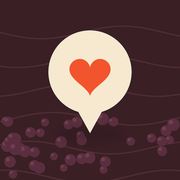
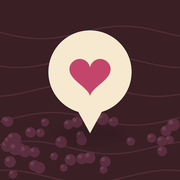
GS: Warteliste mit Double-Opt-in, Vorschaubild für Links, App-Symbol in Rosé, Startseite mit neuen Funktionen
Claude-Session: https://claude.ai/code/session_013EZpijX2i7xxmbD4YmDS6P

Changed region(s): [[0.3611, 0.3056, 0.6389, 0.5278]]

diff --git a/start/index.html b/start/index.html
@@ -5,6 +5,17 @@
 <meta name="viewport" content="width=device-width, initial-scale=1, viewport-fit=cover">
 <meta name="theme-color" content="#1c1016">
 <meta name="description" content="GS ist eine private Karte für zwei. So bekommst du Zugang, installierst die App auf dem Handy und holst deinen Partner dazu.">
+<meta property="og:type" content="website">
+<meta property="og:site_name" content="GS">
+<meta property="og:title" content="GS – Orte, die nur ihr kennt">
+<meta property="og:description" content="Eure private Karte für ruhige Lieblingsorte – speichern, bewerten und mit Partner oder Familie teilen.">
+<meta property="og:url" content="https://app.geheimespots.de/start/">
+<meta property="og:image" content="https://app.geheimespots.de/og.jpg">
+<meta property="og:image:width" content="1200">
+<meta property="og:image:height" content="630">
+<meta property="og:image:alt" content="GS – Orte, die nur ihr kennt. Zwei Pins mit Herz auf einer dunklen Karte.">
+<meta property="og:locale" content="de_DE">
+<meta name="twitter:card" content="summary_large_image">
 <title>GS – eure private Karte</title>
 <link rel="icon" href="../icon-192.png">
 <link rel="apple-touch-icon" href="../icon-180.png">
@@ -44,6 +55,16 @@ a{color:inherit}
 .knoepfe{display:flex;flex-wrap:wrap;gap:12px}
 .btn{display:inline-flex;align-items:center;justify-content:center;min-height:52px;padding:0 26px;border-radius:999px;font-weight:700;font-size:17px;text-decoration:none;border:0}
 .btn.voll{background:var(--koralle);color:#fff;box-shadow:0 8px 30px rgba(196,69,108,.35)}
+.wl{display:grid;gap:14px;max-width:520px;margin-top:8px;position:relative}
+.wl-feld{display:grid;gap:6px;font-weight:700;font-size:15px}
+.wl-feld input{font:inherit;font-size:17px;color:var(--haut);background:rgba(246,233,228,.07);border:1.5px solid rgba(246,233,228,.14);border-radius:14px;padding:14px 16px;outline:none}
+.wl-feld input:focus{border-color:var(--koralle)}
+.wl-ok{display:flex;gap:12px;align-items:flex-start;font-size:15px;color:var(--rauch);line-height:1.5}
+.wl-ok input{width:22px;height:22px;margin:1px 0 0;accent-color:var(--koralle);flex:none}
+.wl-ok a{color:var(--kerze)}
+.wl-err{margin:0;min-height:1.2em;color:#ff9a9e;font-size:15px}
+.wl .btn{justify-self:start}
+.wl-status{max-width:520px;background:rgba(196,69,108,.16);border-radius:16px;padding:14px 18px;margin:8px 0 14px;line-height:1.5}
 .btn.rand{background:transparent;color:var(--haut);box-shadow:inset 0 0 0 1.5px rgba(246,233,228,.45)}
 .btn.dunkel{background:rgba(246,233,228,.1);color:var(--haut);box-shadow:inset 0 0 0 1.5px rgba(246,233,228,.25)}
 
@@ -147,9 +168,14 @@ footer span{margin-right:auto}
     <h2 id="was">Was GS kann</h2>
     <p class="intro">Kein Download aus dem App Store nötig: GS läuft im Browser und liegt danach wie eine normale App auf deinem Home-Bildschirm.</p>
     <ul class="kurz">
-      <li><b>Nur ihr zwei</b><span>Eure Karte sieht niemand außer euch. Wer dazukommt, bestimmt ihr mit einem Code.</span></li>
-      <li style="--farbe:var(--kerze)"><b>Ungestört bewertet</b><span>Sterne für Gesamt, Ambiente und wie ungestört ihr dort wart. Mit Foto, Adresse und Route dorthin.</span></li>
-      <li style="--farbe:var(--haut)"><b>Teilen, wenn ihr wollt</b><span>Einzelne Spots könnt ihr teilen – ohne Fotos, nur mit Profilbild und Kürzel wie „N…s“.</span></li>
+      <li><b>Nur für euch</b><span>Eure Karte sieht niemand außer euch – zu zweit oder mit der Familie. Wer dazukommt, bestimmt ihr mit einem Code.</span></li>
+      <li style="--farbe:var(--kerze)"><b>Ungestört bewertet</b><span>Sterne für Gesamt, Ambiente und wie ungestört ihr dort wart. Mit Adresse und Route dorthin.</span></li>
+      <li style="--farbe:var(--haut)"><b>Fünf Fotos pro Ort</b><span>Eine kleine Galerie zu jedem Spot. Die Bilder bleiben privat und gelangen nie auf die öffentliche Karte.</span></li>
+      <li><b>Eure Wunschliste</b><span>Orte, an denen ihr noch nicht wart, landen mit dem Schloss-Herz in euren Favoriten – bis ihr dort wart.</span></li>
+      <li style="--farbe:var(--kerze)"><b>Vorschläge in der Nähe</b><span>Aussichtspunkte, Picknickplätze und Waldparkplätze im Umkreis von 3, 5 oder 10 km – oder rund um jeden Ort, den ihr sucht.</span></li>
+      <li style="--farbe:var(--haut)"><b>Herzen anderer entdecken</b><span>Auf der öffentlichen Karte zeigt jedes Herz einen Lieblingsort: mit Riss unter 5 Punkten, ganzes Herz ab 5, Doppelherz ab 7. Filterbar.</span></li>
+      <li><b>Teilen, wenn ihr wollt</b><span>Einzelne Spots könnt ihr teilen – ohne Fotos, nur mit Profilbild und Kürzel wie „N…s“.</span></li>
+      <li style="--farbe:var(--kerze)"><b>Bescheid, wenn's Neues gibt</b><span>Auf Wunsch eine Benachrichtigung, sobald euer Partner einen Ort speichert. Ohne den Namen des Orts auf dem Sperrbildschirm.</span></li>
     </ul>
   </section>
 
@@ -206,6 +232,19 @@ footer span{margin-right:auto}
     </ol>
   </section>
 
+  <section id="warteliste" aria-labelledby="wlH">
+    <h2 id="wlH">Bald im App Store</h2>
+    <p class="intro">GS kommt als App für iPhone und Android. Trag dich ein, dann sagen wir dir einmal Bescheid, sobald es so weit ist.</p>
+    <div class="wl-status" id="wlStatus" role="status" hidden></div>
+    <form class="wl" id="wlForm" novalidate>
+      <label class="wl-feld">E-Mail<input type="email" id="wlEmail" autocomplete="email" inputmode="email" maxlength="120" required></label>
+      <input type="text" id="wlHp" tabindex="-1" autocomplete="off" aria-hidden="true" style="position:absolute;left:-9999px;width:1px;height:1px">
+      <label class="wl-ok"><input type="checkbox" id="wlOk"><span>Ich möchte eine E-Mail bekommen, sobald GS im App Store erscheint. Abmelden geht jederzeit über den Link in der Mail. Mehr in der <a href="../rechtliches/datenschutz.html#warteliste">Datenschutzerklärung</a>.</span></label>
+      <p class="wl-err" id="wlErr" aria-live="polite"></p>
+      <button class="btn voll" id="wlBtn" type="submit">Eintragen</button>
+    </form>
+  </section>
+
   <section aria-labelledby="fragenH">
     <h2 id="fragenH">Fragen</h2>
     <div class="fragen">
@@ -255,6 +294,59 @@ footer span{margin-right:auto}
   });
   if (/android/i.test(navigator.userAgent)) waehle(1);
 })();
+</script>
+<script type="module">
+const FIREBASE_CONFIG = {
+  apiKey: 'AIzaSyBi8vKQETOYjboNPN72zPrSsuZQLUGOKqI',
+  authDomain: 'projekt-fs.firebaseapp.com',
+  projectId: 'projekt-fs',
+  storageBucket: 'projekt-fs.firebasestorage.app',
+  messagingSenderId: '1009677457222',
+  appId: '1:1009677457222:web:c3eb3d2029ccc804503747'
+};
+const base = 'https://www.gstatic.com/firebasejs/10.12.2/';
+const $ = s => document.querySelector(s);
+const EMAIL_RE = /^[^@ ]+@[^@ ]+[.][^@ ]+$/;
+let fs = null;
+async function db() {
+  if (fs) return fs;
+  const [A, F] = await Promise.all([import(base + 'firebase-app.js'), import(base + 'firebase-firestore.js')]);
+  fs = { F, db: F.getFirestore(A.initializeApp(FIREBASE_CONFIG)) };
+  return fs;
+}
+const status = (t, formWeg) => { const el = $('#wlStatus'); el.textContent = t; el.hidden = false; if (formWeg) $('#wlForm').hidden = true; $('#warteliste').scrollIntoView({ block: 'start' }); };
+$('#wlForm').addEventListener('submit', async e => {
+  e.preventDefault();
+  const err = $('#wlErr'), btn = $('#wlBtn'), email = $('#wlEmail').value.trim().toLowerCase();
+  if ($('#wlHp').value) { status('Danke! Schau in dein Postfach.', true); return; }
+  if (!EMAIL_RE.test(email) || email.length > 120) { err.textContent = 'Diese E-Mail-Adresse sieht nicht richtig aus.'; $('#wlEmail').focus(); return; }
+  if (!$('#wlOk').checked) { err.textContent = 'Bitte setz das Häkchen, damit wir dir schreiben dürfen.'; return; }
+  try { if (Date.now() - Number(localStorage.getItem('gs.wl') || 0) < 60000) { err.textContent = 'Bitte warte eine Minute.'; return; } } catch {}
+  err.textContent = ''; btn.disabled = true; btn.textContent = 'Wird eingetragen…';
+  try {
+    const { F, db: d } = await db();
+    await F.addDoc(F.collection(d, 'warteliste'), { email, einwilligung: '2026-11-26', createdAt: F.serverTimestamp(), bestaetigt: false });
+    try { localStorage.setItem('gs.wl', String(Date.now())); } catch {}
+    status('Fast geschafft: Wir haben dir eine E-Mail geschickt. Bitte bestätige darin deine Anmeldung – schau zur Sicherheit auch im Spam-Ordner nach.', true);
+  } catch {
+    err.textContent = 'Das hat nicht geklappt. Bitte versuch es später nochmal.';
+    btn.disabled = false; btn.textContent = 'Eintragen';
+  }
+});
+// Links aus der Bestätigungs-Mail
+const q = new URLSearchParams(location.search), was = q.get('warteliste'), id = q.get('id') || '';
+if ((was === 'bestaetigen' || was === 'abmelden') && /^[A-Za-z0-9]{10,40}$/.test(id)) {
+  history.replaceState(null, '', location.pathname + '#warteliste');
+  (async () => {
+    try {
+      const { F, db: d } = await db(), ref = F.doc(d, 'warteliste', id);
+      if (was === 'bestaetigen') { await F.updateDoc(ref, { bestaetigt: true, bestaetigtAm: F.serverTimestamp() }); status('Danke, deine Anmeldung ist bestätigt. Wir melden uns, sobald GS im App Store ist.', true); }
+      else { await F.deleteDoc(ref); status('Du bist abgemeldet und deine E-Mail-Adresse ist gelöscht.', false); }
+    } catch {
+      status(was === 'bestaetigen' ? 'Dieser Link ist nicht mehr gültig oder wurde schon benutzt. Trag dich bei Bedarf einfach neu ein.' : 'Abmelden hat nicht geklappt. Schreib uns an kontakt@geheimespots.de, dann löschen wir deine Adresse.', false);
+    }
+  })();
+}
 </script>
 </body>
 </html>

diff --git a/functions/index.js b/functions/index.js
@@ -204,6 +204,10 @@ async function aufraeumen(now = Date.now()) {
     .concat((await db.collection('meldungen').where('status', '==', 'spam').get()).docs.filter(d => { const c = d.data().createdAt; return c && c.toMillis() < tag; }));
   for (let i = 0; i < alt.length; i += 400) { const b = db.batch(); alt.slice(i, i + 400).forEach(d => b.delete(d.ref)); await b.commit(); }
   n += alt.length;
+  // Unbestätigte Warteliste-Einträge nach 7 Tagen
+  const wl = (await db.collection('warteliste').where('bestaetigt', '==', false).get()).docs.filter(x => { const c = x.data().createdAt; return c && c.toMillis && c.toMillis() < now - 7 * 24 * 3600 * 1000; });
+  await Promise.all(wl.map(d => d.ref.delete()));
+  n += wl.length;
   // Nicht bearbeitete Fotovorschläge nach 90 Tagen
   const fv = await db.collection('ortFotos').where('createdAt', '<', Timestamp.fromMillis(now - 90 * 24 * 3600 * 1000)).get();
   await Promise.all(fv.docs.map(d => d.ref.delete()));
@@ -399,6 +403,44 @@ exports.neuerFotovorschlag = onDocumentCreated({ document: 'ortFotos/{fid}', sec
   try { await fotoHinweis(d.ort); } catch (e) { logger.warn('Foto-Hinweis fehlgeschlagen', e); }
 });
 
+/* ======================================================================
+ * Warteliste für die App-Store-Version: Double-Opt-in per Bestätigungs-Mail
+ * ====================================================================== */
+const WARTELISTE_LIMIT_PER_HOUR = 30;
+function wartelisteMail(id) {
+  const ja = `${APP_URL}start/?warteliste=bestaetigen&id=${encodeURIComponent(id)}`;
+  const nein = `${APP_URL}start/?warteliste=abmelden&id=${encodeURIComponent(id)}`;
+  const text = `Hallo,\n\ndu möchtest Bescheid bekommen, sobald GS im App Store erscheint. Bitte bestätige deine Anmeldung:\n\n${ja}\n\nWar das nicht du? Dann ignoriere diese Mail einfach – ohne Bestätigung löschen wir deine Adresse nach 7 Tagen.\n\nAbmelden geht jederzeit: ${nein}\n\nGS – geheime Spots\nkontakt@geheimespots.de`;
+  const html = `<!doctype html><html lang="de"><head><meta charset="utf-8"><meta name="color-scheme" content="dark"></head><body style="margin:0;background:#1c1016;font-family:-apple-system,Segoe UI,Helvetica,Arial,sans-serif;color:#f6e9e4">
+<div style="max-width:520px;margin:0 auto;padding:32px 20px">
+  <div style="background:#2b1424;border-radius:22px 22px 0 0;padding:22px 24px 18px"><div style="font-size:16px;font-weight:700;margin:0 0 10px">GS</div><div style="font-family:Georgia,'Times New Roman',serif;font-style:italic;font-size:26px;line-height:1.15">Fast geschafft</div></div>
+  <div style="background:#241520;border-radius:0 0 22px 22px;padding:22px 24px">
+    <p style="margin:0 0 18px;font-size:15px;line-height:1.6;color:#e3cfd6">Du möchtest Bescheid bekommen, sobald GS im App Store erscheint. Bitte bestätige deine Anmeldung:</p>
+    <p style="margin:0 0 22px"><a href="${ja}" style="display:inline-block;background:#c4456c;color:#fff;text-decoration:none;font-weight:700;padding:13px 22px;border-radius:14px">Anmeldung bestätigen</a></p>
+    <p style="margin:0 0 14px;font-size:14px;line-height:1.6;color:#b89aa8">War das nicht du? Dann ignoriere diese Mail einfach – ohne Bestätigung löschen wir deine Adresse nach 7 Tagen. <a href="${nein}" style="color:#f2b8c8">Abmelden</a> geht jederzeit.</p>
+    <p style="margin:6px 0 0;font-size:13px;color:#b89aa8">GS – geheime Spots · kontakt@geheimespots.de</p></div>
+</div></body></html>`;
+  return { html, text };
+}
+exports.neueWarteliste = onDocumentCreated({ document: 'warteliste/{id}', secrets: [BREVO_KEY] }, async event => {
+  const snap = event.data; if (!snap) return;
+  const d = snap.data() || {}, email = String(d.email || '').trim().toLowerCase();
+  if (!EMAIL_RE.test(email)) { await snap.ref.delete(); return; }
+  const seit = Timestamp.fromMillis(Date.now() - 3600 * 1000);
+  const n = (await db.collection('warteliste').where('createdAt', '>', seit).get()).size;
+  if (n > WARTELISTE_LIMIT_PER_HOUR) { await snap.ref.delete(); logger.warn('Warteliste gedrosselt', { n }); return; }
+  const gleich = (await db.collection('warteliste').where('email', '==', email).get()).docs.filter(x => x.id !== snap.id);
+  if (gleich.length) { // schon eingetragen: keine zweite Adresse, höchstens die alte Bestätigung erneut schicken
+    await snap.ref.delete();
+    const alt = gleich[0], a = alt.data() || {};
+    const vor = a.createdAt && a.createdAt.toMillis ? Date.now() - a.createdAt.toMillis() : 0;
+    if (!a.bestaetigt && vor > 10 * 60 * 1000) { const m = wartelisteMail(alt.id); try { await sendMail(email, 'GS: Bitte bestätige deine Anmeldung', m.html, m.text); } catch (e) { logger.warn('Warteliste-Mail fehlgeschlagen', String(e)); } }
+    return;
+  }
+  const m = wartelisteMail(snap.id);
+  try { await sendMail(email, 'GS: Bitte bestätige deine Anmeldung', m.html, m.text); } catch (e) { logger.warn('Warteliste-Mail fehlgeschlagen', String(e)); }
+});
+
 /* Entscheidung an die meldende Person (Art. 16 Abs. 5 DSA) */
 exports.meldungEntschieden = onDocumentUpdated({ document: 'meldungen/{id}', secrets: [BREVO_KEY] }, async event => {
   const b = event.data.before.data() || {}, a = event.data.after.data() || {};
@@ -482,4 +524,4 @@ exports.kontoEntsperrt = onDocumentDeleted('kontosperren/{uid}', async event => 
 });
 
 // nur für lokale Tests
-if (process.env.FS_TEST) exports._test = { fotoHinweis, issue, inviteMail, genCode, aufraeumen, spotSync, ortRechnen, kurz, eidOf, distM, profilAufraeumen, gsMail };
+if (process.env.FS_TEST) exports._test = { fotoHinweis, wartelisteMail, issue, inviteMail, genCode, aufraeumen, spotSync, ortRechnen, kurz, eidOf, distM, profilAufraeumen, gsMail };

diff --git a/rechtliches/datenschutz.html b/rechtliches/datenschutz.html
@@ -56,6 +56,9 @@
 <p>Bei einem öffentlichen Ort kannst du ein Foto vorschlagen. Es wird auf deinem Gerät verkleinert und neu gespeichert, dabei gehen Metadaten wie Aufnahmeort und Kamera verloren. Bis zur Prüfung speichern wir das Foto, den Ort, dein Konto und den Zeitpunkt. Der Betreiber prüft den Vorschlag von Hand. Wird er freigegeben, speichern wir nur das Foto mit dem Hinweis „Foto aus der Community“ beim Ort, ohne Bezug zu deinem Konto. Der Vorschlag selbst wird danach gelöscht, ebenso bei Ablehnung und spätestens nach 90 Tagen. Rechtsgrundlage ist die Erfüllung der Nutzungsbedingungen (Art. 6 Abs. 1 lit. b DSGVO).</p>
 <p>Für Orte ohne Foto kann der Betreiber frei lizenzierte Bilder aus <i>Wikimedia Commons</i> auswählen. Diese werden als Kopie bei GS gespeichert und mit Urheber, Lizenz und Link zur Quelle angezeigt. Deine Daten werden dabei nicht an Wikimedia übermittelt, erst wenn du auf den Quellen-Link tippst.</p>
 
+<h2 id="warteliste">6d. Warteliste für die App</h2>
+<p>Auf der Startseite kannst du dich mit deiner E-Mail-Adresse in die Warteliste eintragen, um einmal Bescheid zu bekommen, sobald GS im App Store erscheint. Wir speichern deine E-Mail-Adresse, den Zeitpunkt und ob du die Anmeldung bestätigt hast. Du bekommst zuerst eine Mail mit einem Bestätigungslink (Double-Opt-in); ohne Bestätigung löschen wir die Adresse nach 7 Tagen. Nach der Benachrichtigung zum App-Start löschen wir die Liste. Abmelden kannst du dich jederzeit über den Link in der Mail. Rechtsgrundlage ist deine Einwilligung (Art. 6 Abs. 1 lit. a DSGVO); der Versand läuft über Brevo.</p>
+
 <h2>7. Standort</h2>
 <p>GS fragt deinen Standort nur ab, wenn du darauf tippst, zum Beispiel auf „Mein Standort“ oder „Hier setzen“. Dein Handy fragt dich vorher um Erlaubnis. Der Standort wird auf deinem Gerät verarbeitet und nur gespeichert, wenn du dort einen Spot anlegst. Für Routen und Vorschläge in der Nähe werden die nötigen Koordinaten an die in Abschnitt 8 genannten Kartendienste übermittelt.</p>
 
@@ -76,7 +79,7 @@
 
 <h2>10. Wie lange werden Daten gespeichert?</h2>
 <p>Wir speichern deine Daten, solange du ein Konto hast. Unter <b>Einstellungen › Konto löschen</b> kannst du dein Konto jederzeit selbst löschen. Dann werden dein Login, dein Profil, deine Mitgliedschaften, deine öffentlichen Einträge, deine Push-Abos und offene Fotovorschläge gelöscht. Freigegebene Ortsfotos bleiben ohne Bezug zu dir beim Ort; auf Wunsch entfernen wir sie. Spots, die du auf einer gemeinsamen Karte angelegt hast, bleiben für die anderen Mitglieder erhalten, bis die Karte gelöscht wird oder du uns bittest, sie zu löschen (siehe Abschnitt 2). Eine Karte samt aller Spots kann die Person löschen, die sie angelegt hat.</p>
-<p>Weitere Fristen: Anfragen und Einladungscodes löschen wir nach sechs Monaten, erledigte Meldungen nach einem Jahr, als Spam erkannte Meldungen nach einem Tag, nicht bearbeitete Fotovorschläge nach 90 Tagen. Zum Schutz vor Datenverlust erstellen wir täglich eine Sicherung der Datenbank in Frankfurt. Sicherungen werden nach 30 Tagen automatisch gelöscht. Gelöschte Daten können deshalb bis zu 30 Tage in einer Sicherung verbleiben; sie werden daraus nur zur Wiederherstellung nach einem Fehler verwendet. Bei gesperrten Einträgen und Konten bewahren wir einen Vermerk (betroffenes Konto, Name des Eintrags, Grund, Zeitpunkt) auf, solange das nötig ist, um eine erneute Veröffentlichung zu verhindern und auf Widersprüche reagieren zu können.</p>
+<p>Weitere Fristen: Anfragen und Einladungscodes löschen wir nach sechs Monaten, erledigte Meldungen nach einem Jahr, als Spam erkannte Meldungen nach einem Tag, nicht bearbeitete Fotovorschläge nach 90 Tagen, unbestätigte Einträge in der Warteliste nach 7 Tagen. Zum Schutz vor Datenverlust erstellen wir täglich eine Sicherung der Datenbank in Frankfurt. Sicherungen werden nach 30 Tagen automatisch gelöscht. Gelöschte Daten können deshalb bis zu 30 Tage in einer Sicherung verbleiben; sie werden daraus nur zur Wiederherstellung nach einem Fehler verwendet. Bei gesperrten Einträgen und Konten bewahren wir einen Vermerk (betroffenes Konto, Name des Eintrags, Grund, Zeitpunkt) auf, solange das nötig ist, um eine erneute Veröffentlichung zu verhindern und auf Widersprüche reagieren zu können.</p>
 
 <h2>11. Deine Rechte</h2>
 <p>Du hast das Recht auf Auskunft (Art. 15 DSGVO), Berichtigung (Art. 16), Löschung (Art. 17), Einschränkung der Verarbeitung (Art. 18), Datenübertragbarkeit (Art. 20) und Widerspruch (Art. 21). Eine Kopie deiner Daten – Profil, Karten, Spots mit Bewertungen und Fotos – bekommst du jederzeit selbst unter <b>Einstellungen › Meine Daten herunterladen</b> als Datei. Erteilte Einwilligungen kannst du jederzeit mit Wirkung für die Zukunft widerrufen (Art. 7 Abs. 3). Außerdem kannst du dich bei einer Datenschutz-Aufsichtsbehörde beschweren, zum Beispiel bei der Behörde deines Bundeslandes.</p>

diff --git a/codes/index.html b/codes/index.html
@@ -115,6 +115,12 @@ body.in #login{display:none}body:not(.in) #app{display:none}
     </section>
 
     <section class="card">
+      <h2>Warteliste</h2>
+      <p class="small mut" style="margin:0" id="wlInfo">Lade…</p>
+      <button class="btn sm" data-a="wl-copy" data-id="" style="margin-top:8px">Bestätigte Adressen kopieren</button>
+    </section>
+
+    <section class="card">
       <h2>Ortsfotos <span class="n" id="nFoto" hidden></span></h2>
       <p class="small mut" style="margin:0">Vorschläge aus der App. Freigegebene Fotos erscheinen ohne Namen. Für Orte ohne Foto kannst du frei lizenzierte Bilder aus Wikimedia Commons in der Nähe suchen – die Quelle wird dann automatisch genannt.</p>
       <div class="tabs" id="fTabs">
@@ -166,6 +172,7 @@ const when = ts => { try { const d = ts && ts.toDate ? ts.toDate() : null; retur
 const STATUS = { neu: 'Neu', freigegeben: 'Freigegeben', sendet: 'Wird gesendet', verschickt: 'Verschickt', fehler: 'Fehler', abgelehnt: 'Abgelehnt', doppelt: 'Doppelt' };
 let fs = null, unsubs = [], anfragen = [], codes = [], names = {}, aFilter = 'offen', cFilter = 'alle';
 let meldungen = [], mFilter = 'offen', mInfo = {}, sperrKonten = [];
+let warteliste = [];
 let fotos = [], fFilter = 'offen', orteAlle = null, bildIds = new Set(), wiki = {}, wikiOffen = null;
 const GRUND = { person: 'Erkennbare Person/Kennzeichen', privat: 'Privatgrundstück/Wohnadresse', illegal: 'Gefährlich oder verboten', beleidigend: 'Beleidigend/unangemessen', falsch: 'Falsch/gibt es nicht mehr', sonstiges: 'Sonstiges' };
 let toastT;
@@ -189,6 +196,11 @@ function stop() { for (const u of unsubs) u(); unsubs = []; }
 function start() {
   const { F, db } = fs;
   unsubs.push(F.onSnapshot(F.doc(db, 'einstellungen', 'codes'), s => { $('#auto').checked = !!(s.exists() && s.data().auto); }, e => toast(errMsg(e), 5000)));
+  unsubs.push(F.onSnapshot(F.collection(db, 'warteliste'), s => {
+    warteliste = s.docs.map(d => d.data());
+    const ok = warteliste.filter(x => x.bestaetigt).length;
+    $('#wlInfo').textContent = `${ok} bestätigt · ${warteliste.length - ok} warten auf Bestätigung (werden nach 7 Tagen gelöscht). Nach dem App-Start: Adressen kopieren, einmal anschreiben, dann die Liste löschen.`;
+  }, e => { $('#wlInfo').textContent = errMsg(e); }));
   unsubs.push(F.onSnapshot(F.query(F.collection(db, 'ortFotos'), F.where('status', '==', 'offen')), s => {
     fotos = s.docs.map(d => ({ id: d.id, ...d.data() })).sort((a, b) => ((a.createdAt && a.createdAt.toMillis()) || 0) - ((b.createdAt && b.createdAt.toMillis()) || 0));
     renderF(); orteLaden();
@@ -427,6 +439,7 @@ document.addEventListener('click', async e => {
   if (t && t.closest('#cTabs')) { cFilter = t.dataset.f; for (const b of document.querySelectorAll('#cTabs button')) b.classList.toggle('on', b === t); renderC(); return; }
   const b = e.target.closest('[data-a]'); if (!b) return;
   const id = b.dataset.id, a = b.dataset.a;
+  if (a === 'wl-copy') { const l = warteliste.filter(x => x.bestaetigt).map(x => x.email).join(', '); if (!l) { toast('Noch keine bestätigten Adressen'); return; } try { await navigator.clipboard.writeText(l); toast('Adressen kopiert – bitte als BCC versenden'); } catch { prompt('Adressen (als BCC versenden):', l); } return; }
   if (/^(f-ok|f-no|w-such|w-pick|b-weg)$/.test(a)) { b.disabled = true; await fotoAktion(a, id, b); b.disabled = false; return; }
   if (a === 'm-ok' || a === 'm-eintrag' || a === 'm-ort' || a === 'm-konto' || a === 'm-entfernt') { b.disabled = true; await moderate(id, a); b.disabled = false; }
   else if (a === 'k-frei') { if (!confirm('Konto wieder freigeben? Die Person kann sich dann wieder anmelden.')) return; b.disabled = true; try { await fs.F.deleteDoc(fs.F.doc(fs.db, 'kontosperren', id)); toast('Konto freigegeben'); } catch (er) { toast(errMsg(er), 5000); b.disabled = false; } }

diff --git a/index.html b/index.html
@@ -7,11 +7,22 @@
 <meta name="mobile-web-app-capable" content="yes">
 <meta name="apple-mobile-web-app-status-bar-style" content="black-translucent">
 <meta name="apple-mobile-web-app-title" content="GS">
-<meta name="app-version" content="2026.11.26-37">
+<meta name="app-version" content="2026.11.26-38">
 <meta name="theme-color" content="#1c1016">
 <link rel="apple-touch-icon" href="icon-180.png">
 <link rel="icon" href="icon-192.png">
 <link rel="manifest" href="manifest.webmanifest">
+<meta property="og:type" content="website">
+<meta property="og:site_name" content="GS">
+<meta property="og:title" content="GS – eure private Karte">
+<meta property="og:description" content="Eure private Karte für ruhige Lieblingsorte – speichern, bewerten und mit Partner oder Familie teilen.">
+<meta property="og:url" content="https://app.geheimespots.de/">
+<meta property="og:image" content="https://app.geheimespots.de/og.jpg">
+<meta property="og:image:width" content="1200">
+<meta property="og:image:height" content="630">
+<meta property="og:image:alt" content="GS – Orte, die nur ihr kennt. Zwei Pins mit Herz auf einer dunklen Karte.">
+<meta property="og:locale" content="de_DE">
+<meta name="twitter:card" content="summary_large_image">
 <title>GS</title>
 <link rel="stylesheet" href="lib/leaflet/leaflet.css">
 <link rel="stylesheet" href="lib/maplibre-gl.css">

diff --git a/anfrage/index.html b/anfrage/index.html
@@ -5,6 +5,17 @@
 <meta name="viewport" content="width=device-width, initial-scale=1, viewport-fit=cover">
 <meta name="robots" content="noindex, nofollow">
 <meta name="theme-color" content="#1c1016">
+<meta property="og:type" content="website">
+<meta property="og:site_name" content="GS">
+<meta property="og:title" content="GS – Zugang anfragen">
+<meta property="og:description" content="Eure private Karte für ruhige Lieblingsorte – speichern, bewerten und mit Partner oder Familie teilen.">
+<meta property="og:url" content="https://app.geheimespots.de/anfrage/">
+<meta property="og:image" content="https://app.geheimespots.de/og.jpg">
+<meta property="og:image:width" content="1200">
+<meta property="og:image:height" content="630">
+<meta property="og:image:alt" content="GS – Orte, die nur ihr kennt. Zwei Pins mit Herz auf einer dunklen Karte.">
+<meta property="og:locale" content="de_DE">
+<meta name="twitter:card" content="summary_large_image">
 <title>GS – Zugang anfragen</title>
 <link rel="icon" href="../icon-192.png">
 <link rel="apple-touch-icon" href="../icon-180.png">
